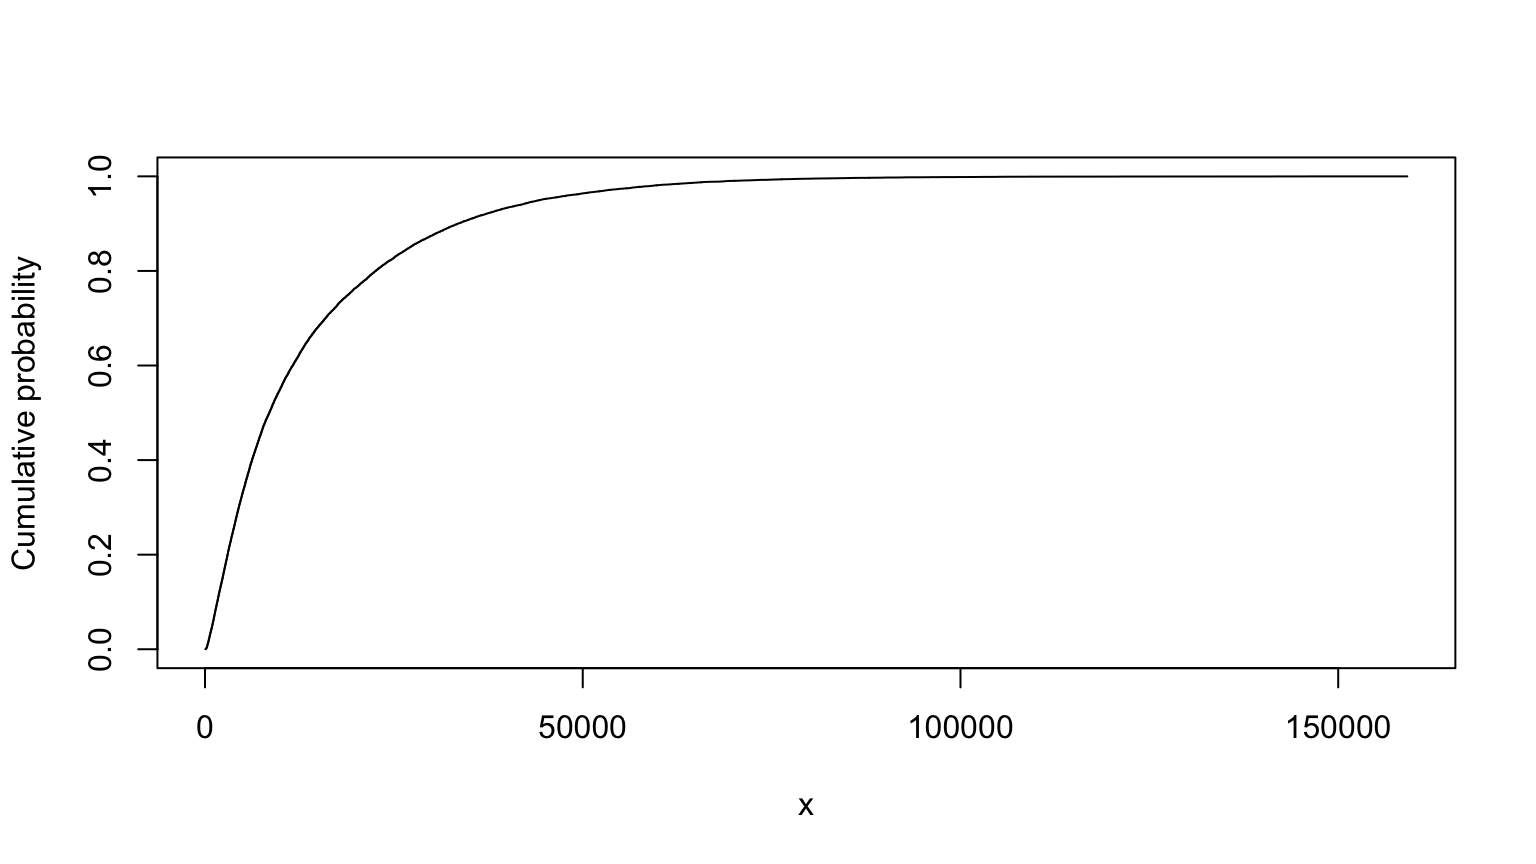
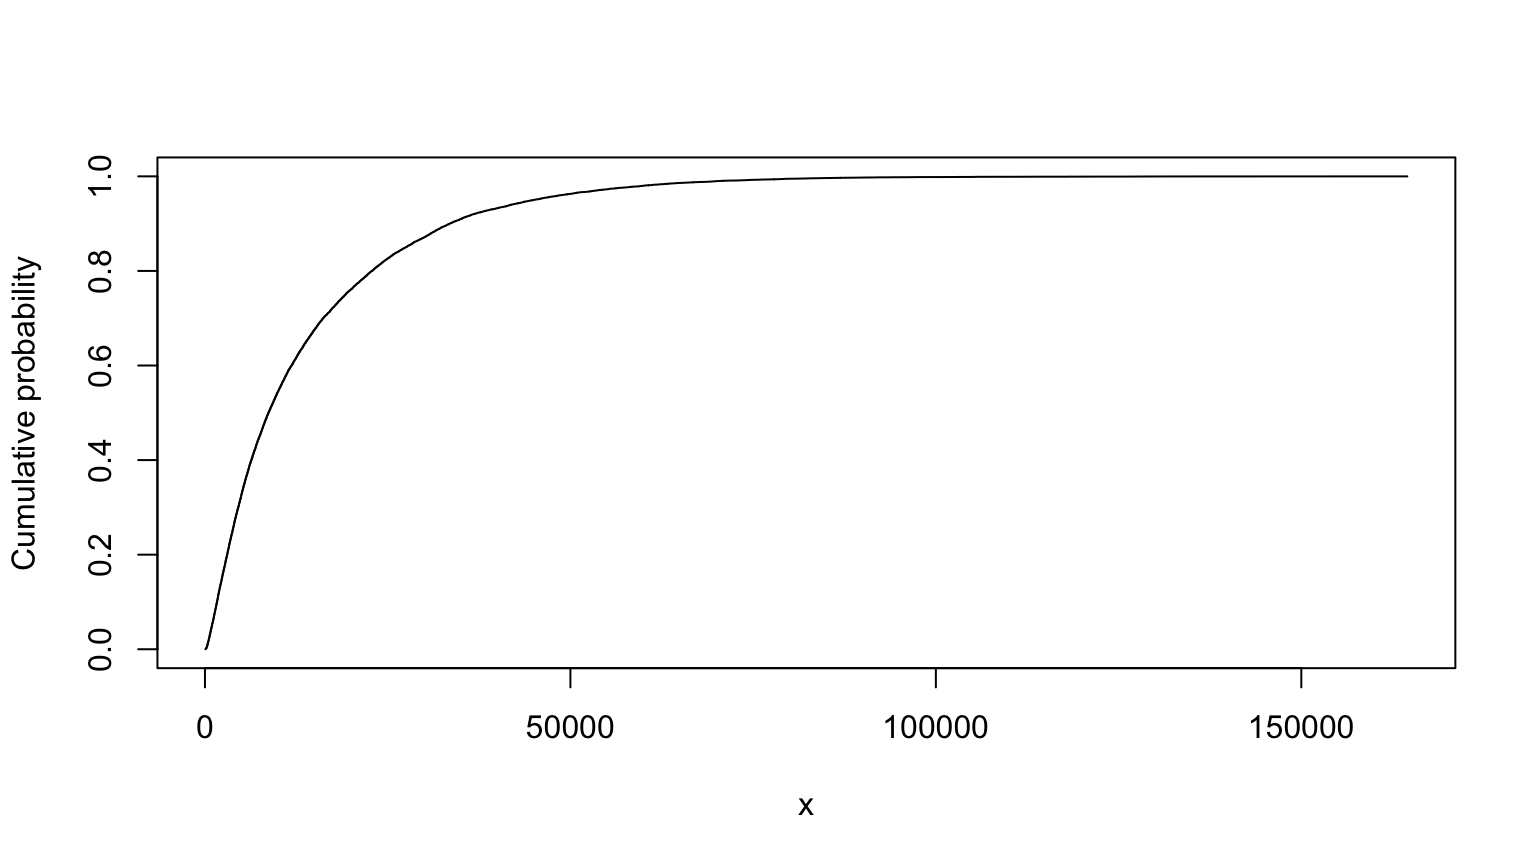
build_analysis_site() for release 1.1.11

diff --git a/docs/workshop.html b/docs/workshop.html
@@ -428,25 +428,25 @@ T &lt;- (n + BD * foc * Koc) * L / (K * i) # all variables assumed independent
 summary(T)</code></pre>
 <pre><code>## 
 ## Monte Carlo distribution summary
-##   Mean: 12997.34
-##   Variance: 245562705
-##   Std Deviation: 15670.44
-##   Width of interquartile range: 12671.44
-##   Width of overall range: 290291
+##   Mean: 12846.83
+##   Variance: 239421979
+##   Std Deviation: 15473.27
+##   Width of interquartile range: 12751.27
+##   Width of overall range: 360785.6
 ##   Order statistics
-##      Left (min) value: -1998.04
-##      1st percentile: 334.1538
-##      5th percentile: 922.7019
-##      25th percentile: 3661.012
-##      Median (50th%ile): 8190.403
-##      75th percentile: 16332.45
-##      95th percentile: 41300.1
-##      99th percentile: 76044.18
-##      Right (max) value: 288292.9
+##      Left (min) value: -10208.1
+##      1st percentile: 344.7106
+##      5th percentile: 893.4425
+##      25th percentile: 3606.738
+##      Median (50th%ile): 8088.847
+##      75th percentile: 16358.01
+##      95th percentile: 40518.5
+##      99th percentile: 74572.91
+##      Right (max) value: 350577.5
 ##   Replications: 20000</code></pre>
 <pre class="r"><code>T</code></pre>
 <p><img src="workshop_files/figure-html/T-1.png" alt="" width="768" /></p>
-<pre><code>## MC (min=-1998.03984622157, median=8190.40256084255, mean=12997.3425462783, max=288292.945011184)</code></pre>
+<pre><code>## MC (min=-10208.0990294705, median=8088.84740872166, mean=12846.8255850223, max=350577.475472579)</code></pre>
 <pre class="r"><code># nolint end</code></pre>
 <p>Truncated version, from slide 40:</p>
 <pre class="r"><code># nolint start
@@ -466,25 +466,25 @@ T &lt;- (n + BD * foc * Koc) * L / (K * i)
 summary(T)</code></pre>
 <pre><code>## 
 ## Monte Carlo distribution summary
-##   Mean: 12201.9
-##   Variance: 158977246
-##   Std Deviation: 12608.62
-##   Width of interquartile range: 12421.83
-##   Width of overall range: 124554.6
+##   Mean: 12218.58
+##   Variance: 161201879
+##   Std Deviation: 12696.53
+##   Width of interquartile range: 12562.95
+##   Width of overall range: 136418.3
 ##   Order statistics
-##      Left (min) value: 71.51513
-##      1st percentile: 371.9655
-##      5th percentile: 975.3018
-##      25th percentile: 3739.865
-##      Median (50th%ile): 8150.365
-##      75th percentile: 16161.7
-##      95th percentile: 37388.7
-##      99th percentile: 61137.1
-##      Right (max) value: 124626.1
+##      Left (min) value: 86.1673
+##      1st percentile: 383.1127
+##      5th percentile: 958.5684
+##      25th percentile: 3712.986
+##      Median (50th%ile): 8043.453
+##      75th percentile: 16275.93
+##      95th percentile: 37525.75
+##      99th percentile: 60848.98
+##      Right (max) value: 136504.5
 ##   Replications: 20000</code></pre>
 <pre class="r"><code>T</code></pre>
 <p><img src="workshop_files/figure-html/T_truncated-1.png" alt="" width="768" /></p>
-<pre><code>## MC (min=71.5151281216223, median=8150.36501599668, mean=12201.8982512883, max=124626.090476143)</code></pre>
+<pre><code>## MC (min=86.167298106963, median=8043.45277276112, mean=12218.5763876411, max=136504.511115854)</code></pre>
 <pre class="r"><code># nolint end</code></pre>
 <p>Maximum entropy version, from slide 70:</p>
 <p>T and Tind are pretty similar. In this case, the maximum entropy
@@ -503,25 +503,25 @@ Tind &lt;- (n + BD * foc * Koc) * L / (K * i)
 summary(Tind)</code></pre>
 <pre><code>## 
 ## Monte Carlo distribution summary
-##   Mean: 13901.17
-##   Variance: 226289930
-##   Std Deviation: 15042.94
-##   Width of interquartile range: 15248.09
-##   Width of overall range: 159077
+##   Mean: 14075.56
+##   Variance: 230101571
+##   Std Deviation: 15169.1
+##   Width of interquartile range: 15462.26
+##   Width of overall range: 164422.3
 ##   Order statistics
-##      Left (min) value: 66.24372
-##      1st percentile: 349.1684
-##      5th percentile: 963.5895
-##      25th percentile: 3719.996
-##      Median (50th%ile): 8519.153
-##      75th percentile: 18968.08
-##      95th percentile: 44330.62
-##      99th percentile: 68998.38
-##      Right (max) value: 159143.2
+##      Left (min) value: 76.2783
+##      1st percentile: 359.9125
+##      5th percentile: 960.7247
+##      25th percentile: 3774.867
+##      Median (50th%ile): 8704.084
+##      75th percentile: 19237.12
+##      95th percentile: 44954.8
+##      99th percentile: 70032.26
+##      Right (max) value: 164498.6
 ##   Replications: 20000</code></pre>
 <pre class="r"><code>Tind</code></pre>
 <p><img src="workshop_files/figure-html/Tind-1.png" alt="" width="768" /></p>
-<pre><code>## MC (min=66.2437190879527, median=8519.15262839095, mean=13901.1658862103, max=159143.237573794)</code></pre>
+<pre><code>## MC (min=76.2783014291588, median=8704.0840410242, mean=14075.5602138535, max=164498.612070541)</code></pre>
 <pre class="r"><code># nolint end</code></pre>
 </div>
 <div id="probability-bounds-analysis" class="section level2">

diff --git a/docs/news/index.html b/docs/news/index.html
@@ -7,7 +7,7 @@
 
     <a class="navbar-brand me-2" href="../index.html">workshop7</a>
 
-    <small class="nav-text text-muted me-auto" data-bs-toggle="tooltip" data-bs-placement="bottom" title="">1.1.10</small>
+    <small class="nav-text text-muted me-auto" data-bs-toggle="tooltip" data-bs-placement="bottom" title="">1.1.11</small>
 
 
     <button class="navbar-toggler" type="button" data-bs-toggle="collapse" data-bs-target="#navbar" aria-controls="navbar" aria-expanded="false" aria-label="Toggle navigation">
@@ -37,6 +37,10 @@
       <small>Source: <a href="https://github.com/jabenninghoff/workshop7/blob/HEAD/NEWS.md" class="external-link"><code>NEWS.md</code></a></small>
     </div>
 
+    <div class="section level2">
+<h2 class="pkg-version" data-toc-text="1.1.11" id="workshop7-1111">workshop7 1.1.11<a class="anchor" aria-label="anchor" href="#workshop7-1111"></a></h2>
+<ul><li>Update R-CMD-check to run on macOS only</li>
+</ul></div>
     <div class="section level2">
 <h2 class="pkg-version" data-toc-text="1.1.10" id="workshop7-1110">workshop7 1.1.10<a class="anchor" aria-label="anchor" href="#workshop7-1110"></a></h2>
 <ul><li>Removed non-functional lint badge from README</li>

diff --git a/docs/authors.html b/docs/authors.html
@@ -7,7 +7,7 @@
 
     <a class="navbar-brand me-2" href="index.html">workshop7</a>
 
-    <small class="nav-text text-muted me-auto" data-bs-toggle="tooltip" data-bs-placement="bottom" title="">1.1.10</small>
+    <small class="nav-text text-muted me-auto" data-bs-toggle="tooltip" data-bs-placement="bottom" title="">1.1.11</small>
 
 
     <button class="navbar-toggler" type="button" data-bs-toggle="collapse" data-bs-target="#navbar" aria-controls="navbar" aria-expanded="false" aria-label="Toggle navigation">
@@ -51,13 +51,13 @@
 
       <p>Benninghoff J (2026).
 <em>workshop7: SRA 2021 Workshop 7</em>.
-R package version 1.1.10, <a href="https://jabenninghoff.github.io/workshop7/">https://jabenninghoff.github.io/workshop7/</a>.
+R package version 1.1.11, <a href="https://jabenninghoff.github.io/workshop7/">https://jabenninghoff.github.io/workshop7/</a>.
 </p>
       <pre>@Manual{,
   title = {workshop7: SRA 2021 Workshop 7},
   author = {John Benninghoff},
   year = {2026},
-  note = {R package version 1.1.10},
+  note = {R package version 1.1.11},
   url = {https://jabenninghoff.github.io/workshop7/},
 }</pre>
     </div>

diff --git a/docs/404.html b/docs/404.html
@@ -21,7 +21,7 @@
 
     <a class="navbar-brand me-2" href="https://jabenninghoff.github.io/workshop7/index.html">workshop7</a>
 
-    <small class="nav-text text-muted me-auto" data-bs-toggle="tooltip" data-bs-placement="bottom" title="">1.1.10</small>
+    <small class="nav-text text-muted me-auto" data-bs-toggle="tooltip" data-bs-placement="bottom" title="">1.1.11</small>
 
 
     <button class="navbar-toggler" type="button" data-bs-toggle="collapse" data-bs-target="#navbar" aria-controls="navbar" aria-expanded="false" aria-label="Toggle navigation">

diff --git a/docs/reference/index.html b/docs/reference/index.html
@@ -7,7 +7,7 @@
 
     <a class="navbar-brand me-2" href="../index.html">workshop7</a>
 
-    <small class="nav-text text-muted me-auto" data-bs-toggle="tooltip" data-bs-placement="bottom" title="">1.1.10</small>
+    <small class="nav-text text-muted me-auto" data-bs-toggle="tooltip" data-bs-placement="bottom" title="">1.1.11</small>
 
 
     <button class="navbar-toggler" type="button" data-bs-toggle="collapse" data-bs-target="#navbar" aria-controls="navbar" aria-expanded="false" aria-label="Toggle navigation">

diff --git a/docs/reference/workshop7-package.html b/docs/reference/workshop7-package.html
@@ -7,7 +7,7 @@
 
     <a class="navbar-brand me-2" href="../index.html">workshop7</a>
 
-    <small class="nav-text text-muted me-auto" data-bs-toggle="tooltip" data-bs-placement="bottom" title="">1.1.10</small>
+    <small class="nav-text text-muted me-auto" data-bs-toggle="tooltip" data-bs-placement="bottom" title="">1.1.11</small>
 
 
     <button class="navbar-toggler" type="button" data-bs-toggle="collapse" data-bs-target="#navbar" aria-controls="navbar" aria-expanded="false" aria-label="Toggle navigation">

diff --git a/docs/index.html b/docs/index.html
@@ -23,7 +23,7 @@
 
     <a class="navbar-brand me-2" href="index.html">workshop7</a>
 
-    <small class="nav-text text-muted me-auto" data-bs-toggle="tooltip" data-bs-placement="bottom" title="">1.1.10</small>
+    <small class="nav-text text-muted me-auto" data-bs-toggle="tooltip" data-bs-placement="bottom" title="">1.1.11</small>
 
 
     <button class="navbar-toggler" type="button" data-bs-toggle="collapse" data-bs-target="#navbar" aria-controls="navbar" aria-expanded="false" aria-label="Toggle navigation">

diff --git a/docs/LICENSE-text.html b/docs/LICENSE-text.html
@@ -7,7 +7,7 @@
 
     <a class="navbar-brand me-2" href="index.html">workshop7</a>
 
-    <small class="nav-text text-muted me-auto" data-bs-toggle="tooltip" data-bs-placement="bottom" title="">1.1.10</small>
+    <small class="nav-text text-muted me-auto" data-bs-toggle="tooltip" data-bs-placement="bottom" title="">1.1.11</small>
 
 
     <button class="navbar-toggler" type="button" data-bs-toggle="collapse" data-bs-target="#navbar" aria-controls="navbar" aria-expanded="false" aria-label="Toggle navigation">

diff --git a/docs/LICENSE.html b/docs/LICENSE.html
@@ -7,7 +7,7 @@
 
     <a class="navbar-brand me-2" href="index.html">workshop7</a>
 
-    <small class="nav-text text-muted me-auto" data-bs-toggle="tooltip" data-bs-placement="bottom" title="">1.1.10</small>
+    <small class="nav-text text-muted me-auto" data-bs-toggle="tooltip" data-bs-placement="bottom" title="">1.1.11</small>
 
 
     <button class="navbar-toggler" type="button" data-bs-toggle="collapse" data-bs-target="#navbar" aria-controls="navbar" aria-expanded="false" aria-label="Toggle navigation">

diff --git a/docs/TODO.html b/docs/TODO.html
@@ -7,7 +7,7 @@
 
     <a class="navbar-brand me-2" href="index.html">workshop7</a>
 
-    <small class="nav-text text-muted me-auto" data-bs-toggle="tooltip" data-bs-placement="bottom" title="">1.1.10</small>
+    <small class="nav-text text-muted me-auto" data-bs-toggle="tooltip" data-bs-placement="bottom" title="">1.1.11</small>
 
 
     <button class="navbar-toggler" type="button" data-bs-toggle="collapse" data-bs-target="#navbar" aria-controls="navbar" aria-expanded="false" aria-label="Toggle navigation">
